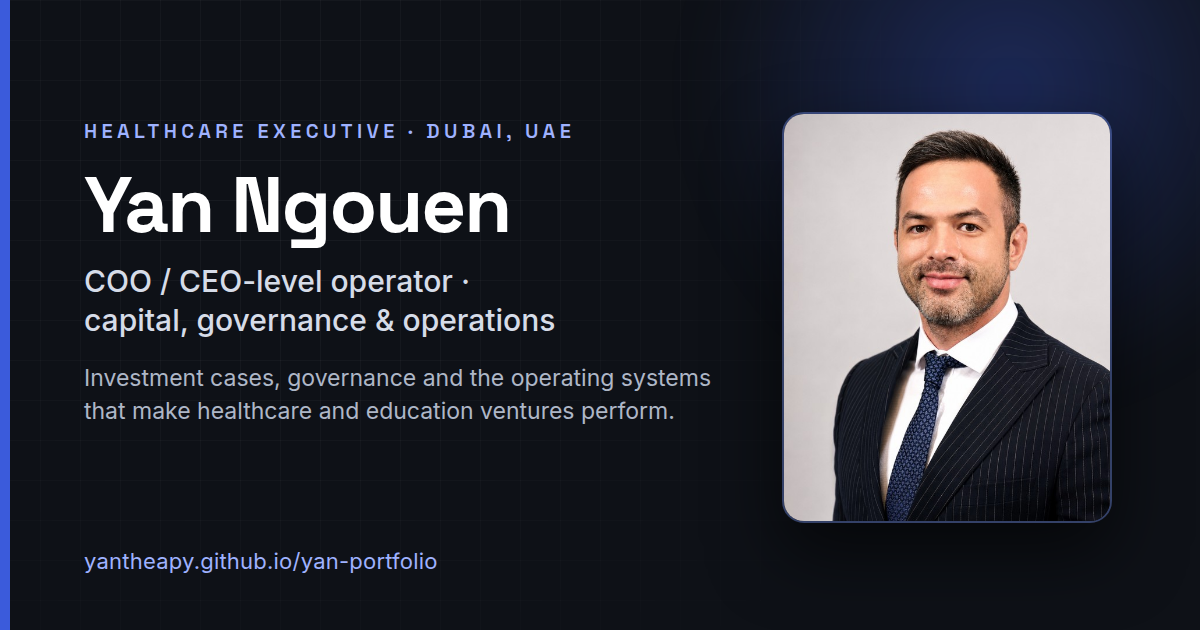
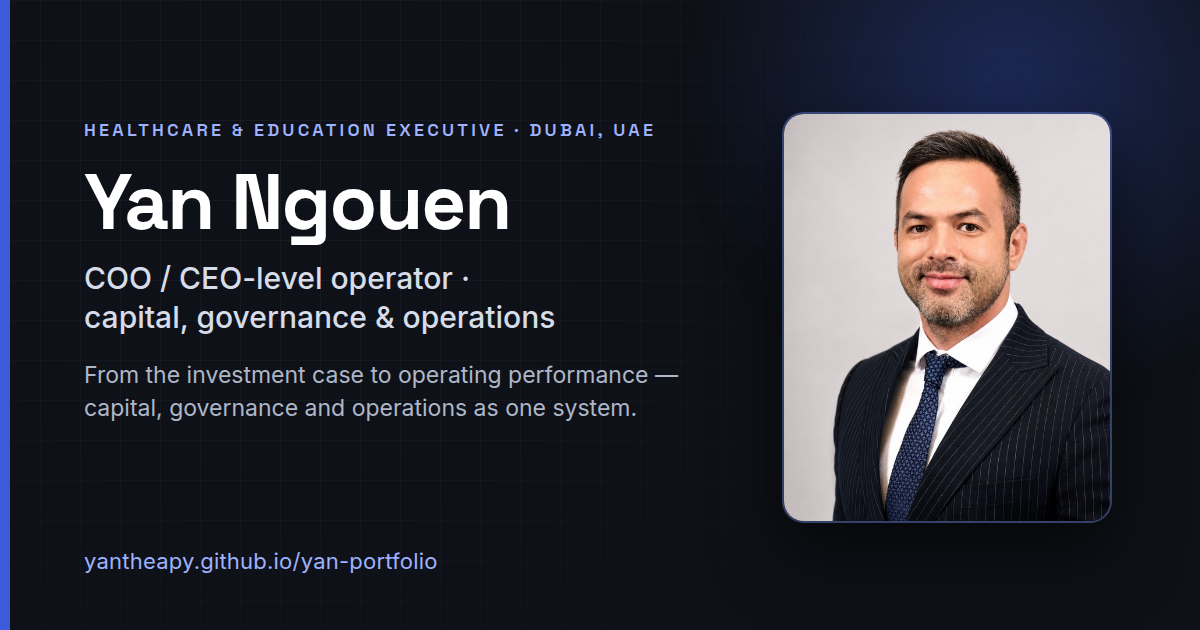
update

diff --git a/index.html b/index.html
@@ -3,20 +3,20 @@
 <head>
 <meta charset="UTF-8">
 <meta name="viewport" content="width=device-width, initial-scale=1.0">
-<title>Yan Ngouen — Healthcare executive · COO / CEO-level operator · Dubai</title>
-<meta name="description" content="Yan Ngouen — healthcare executive in Dubai. COO / CEO-level operator for healthcare and education ventures: investment cases, governance and operations. Four M&amp;A deals closed end-to-end, an AED 240M+ investment programme taken to a board go/no-go, an AED 1.0B+ collection structured into an investable institution.">
+<title>Yan Ngouen — Healthcare &amp; education executive · COO / CEO-level operator · Dubai</title>
+<meta name="description" content="Yan Ngouen — healthcare &amp; education executive in Dubai. COO / CEO-level operator: takes healthcare, education and cultural ventures from the investment case to operating performance — capital, governance and operations as one system. Four M&amp;A deals closed end-to-end, an AED 240M+ investment programme taken to a board go/no-go, an AED 1.0B+ collection structured into an investable institution.">
 <meta name="theme-color" content="#0E1117">
 <link rel="canonical" href="https://yantheapy.github.io/yan-portfolio/">
 <link rel="icon" type="image/png" href="favicon.png">
 <meta property="og:type" content="profile">
-<meta property="og:title" content="Yan Ngouen — Healthcare executive · COO / CEO-level operator · Dubai">
+<meta property="og:title" content="Yan Ngouen — Healthcare &amp; education executive · COO / CEO-level operator · Dubai">
 <meta property="og:description" content="Investment cases, governance and the operating systems that make healthcare and education ventures perform. Four M&amp;A deals, an AED 240M+ investment programme, an AED 1.0B+ collection made investable. Dubai, UAE.">
 <meta property="og:image" content="https://yantheapy.github.io/yan-portfolio/og-image.png">
 <meta property="og:image:width" content="1200">
 <meta property="og:image:height" content="630">
 <meta property="og:url" content="https://yantheapy.github.io/yan-portfolio/">
 <meta name="twitter:card" content="summary_large_image">
-<meta name="twitter:title" content="Yan Ngouen — Healthcare executive · COO / CEO-level operator · Dubai">
+<meta name="twitter:title" content="Yan Ngouen — Healthcare &amp; education executive · COO / CEO-level operator · Dubai">
 <meta name="twitter:description" content="Investment cases, governance and operations for healthcare and education ventures. Dubai, UAE.">
 <meta name="twitter:image" content="https://yantheapy.github.io/yan-portfolio/og-image.png">
 <link rel="preload" href="assets/fonts/inter-latin-400-normal.woff2" as="font" type="font/woff2" crossorigin>
@@ -27,8 +27,8 @@
   "@context": "https://schema.org",
   "@type": "Person",
   "name": "Yan Ngouen",
-  "jobTitle": "Healthcare executive · COO / CEO-level operator",
-  "description": "Healthcare executive in Dubai: investment cases, governance and operations for healthcare and education ventures.",
+  "jobTitle": "Healthcare & education executive · COO / CEO-level operator",
+  "description": "Healthcare and education executive in Dubai: takes ventures from the investment case to operating performance — capital, governance and operations as one system.",
   "url": "https://yantheapy.github.io/yan-portfolio/",
   "image": "https://yantheapy.github.io/yan-portfolio/photo.jpg",
   "email": "mailto:yantherapy@gmail.com",
@@ -277,7 +277,7 @@
         <a href="#background">Background</a>
         <a href="#how">How I work</a>
         <a href="#contact">Contact</a>
-        <a class="navcta" href="YanNgouen_CV.pdf" download>CV (PDF)</a>
+        <a class="navcta" href="YanNgouen_CV.pdf" target="_blank" rel="noopener">CV (PDF)</a>
       </nav>
     </div>
   </header>
@@ -289,13 +289,13 @@
           <source type="image/webp" srcset="photo.webp 1x, photo-2x.webp 2x">
           <img class="headshot" src="photo.jpg" alt="Yan Ngouen" width="188" height="235" fetchpriority="high">
         </picture>
-        <div class="eyebrow">Healthcare executive · Dubai, UAE</div>
+        <div class="eyebrow">Healthcare &amp; education executive · Dubai, UAE</div>
         <h1>Yan Ngouen</h1>
         <p class="role">COO / CEO-level operator · capital, governance &amp; operations</p>
-        <p class="spine">I run and finance healthcare and education ventures — from the investment case to day-to-day operations — so boards get <b>decisions they can defend</b> and teams get <b>systems that hold</b>.</p>
+        <p class="spine">I take healthcare, education and cultural ventures from the investment case to operating performance — <b>capital, governance and operations as one system</b>.</p>
         <p class="meta"><span>UAE residence, no sponsorship required</span><i>·</i><span>English · Russian</span><i>·</i><span>MBA Frankfurt School (Distinction)</span><i>·</i><span>MSc Health Economics, LSE</span><i>·</i><span>TRIUM Global EMBA 2026–28</span></p>
         <div class="hero-actions">
-          <a class="btn primary" href="YanNgouen_CV.pdf" download>Download CV (PDF)</a>
+          <a class="btn primary" href="YanNgouen_CV.pdf" target="_blank" rel="noopener">Open CV (PDF)</a>
           <a class="btn ghost-light" href="#contact">Get in touch</a>
         </div>
         <div class="hero-links">
@@ -316,7 +316,7 @@
 
     <section id="work" class="sec">
       <div class="sec-head"><h2>Selected work</h2></div>
-      <p class="sec-sub">Three mandates where capital, governance and operations had to work as one system. Each has a live model or platform behind it; figures are the models' own, shared with the owners' permission.</p>
+      <p class="sec-sub">Four mandates where capital, governance and operations had to work as one system. Each has a live model or platform behind it; figures are the models' own, shared with the owners' permission.</p>
 
       <article class="case" id="case-clinic">
         <div class="tag">Investment decision · UAE healthcare developer</div>
@@ -382,6 +382,29 @@
         </details>
       </article>
 
+      <article class="case" id="case-university">
+        <div class="tag">Commercial &amp; operating leadership · private university group</div>
+        <h3>M&amp;A-led growth of a ~RUB 1B private university group</h3>
+        <div class="ctx">Chief Commercial Officer / COO · Synergy University, Moscow — business, medicine and digital faculties · Jun 2023 – Nov 2024</div>
+        <div class="blocks">
+          <div class="block"><div class="k">Challenge</div><p>Six business units, 150+ staff and ~RUB 1B of annual revenue: growth had to come from portfolio decisions and acquisitions rather than one faculty, and the group needed one set of numbers across all units.</p></div>
+          <div class="block"><div class="k">What I did</div><p>Owned group financial planning and budgeting; repositioned the medical faculty and ran portfolio optimisation with KPI-driven management; built one analytics framework (NPS, CSAT, KPIs) across six units; led four medical-clinic M&amp;A deals end-to-end — due diligence, valuation, integration.</p></div>
+          <div class="block"><div class="k">Result</div><p>~40% revenue CAGR, four acquisitions closed and integrated, and a single analytics framework the leadership team ran the group on.</p></div>
+        </div>
+
+        <div class="ev" role="group" aria-label="University group mandate summary">
+          <div class="ev-head"><div class="ev-title">Group scope · Jun 2023 – Nov 2024</div></div>
+          <div class="kpis four">
+            <div class="kpi"><div class="l">Annual revenue</div><div class="v">~RUB 1B</div><div class="b">six business units</div></div>
+            <div class="kpi"><div class="l">Revenue CAGR</div><div class="v">~40%</div><div class="b">portfolio optimisation · KPI management</div></div>
+            <div class="kpi"><div class="l">M&amp;A transactions</div><div class="v">4</div><div class="b">medical clinics · end-to-end</div></div>
+            <div class="kpi"><div class="l">Team</div><div class="v">150+</div><div class="b">across six units</div></div>
+          </div>
+        </div>
+
+        <div class="outcome"><span class="o">~40% revenue CAGR</span><span class="o">Four acquisitions closed and integrated</span><span class="o">One analytics framework across six units</span></div>
+      </article>
+
       <article class="case" id="case-museum">
         <div class="tag">Capital raise · cultural institution, Dubai</div>
         <h3>A landmark private collection, made investable</h3>
@@ -423,7 +446,7 @@
       <article class="case" id="case-platform">
         <div class="tag">Operational transformation · DHA-regulated clinic, Dubai</div>
         <h3>From scattered documents to an audit-ready clinic</h3>
-        <div class="ctx">Premium dental clinic, Dubai · transformation mandate · 2026</div>
+        <div class="ctx">Chief Executive Officer, transformation mandate · premium DHA-regulated dental clinic, Dubai · 2026</div>
         <div class="blocks">
           <div class="block"><div class="k">Challenge</div><p>Scaling a regulated clinic while governance, quality, sales and operations lived in scattered documents — no single, access-controlled source of truth and no way to see the numbers.</p></div>
           <div class="block"><div class="k">What I did</div><p>Mapped and redesigned the core business processes, built the governance and quality backbone — a 31-KPI Balanced Scorecard, 14 SOPs, CAPA continuous improvement, patient-risk and RAID registers — and put it on one internal platform for management and clinicians, bilingual RU/EN.</p></div>
@@ -482,6 +505,7 @@
         <div class="tcard"><div class="th">Business</div><p>MBA, Frankfurt School (Distinction); MSc Health Economics, Policy and Management, LSE; TRIUM Global Executive MBA (NYU Stern / LSE / HEC Paris), 2026–28: financial, strategic and policy discipline for board-level decisions.</p></div>
         <div class="tcard"><div class="th">Systems</div><p>I build the decision systems myself — financial models, dashboards, operating platforms — so the numbers a board sees are the numbers the floor runs on.</p></div>
       </div>
+      <p class="aside-link"><b>Board &amp; advisory:</b> Strategic Advisor to the Board, UMED — private medical university and college group, 7,000+ students · 2024–present. Earlier: Medical Education Director, RockTape (Europe &amp; Mediterranean); Head of Rehabilitation, VC Zenith.</p>
     </section>
 
     <section id="how" class="sec">
@@ -502,7 +526,7 @@
       <p class="lead">Executive leadership for organisations that need strategy, capital and operations to run as one system across the UAE, the GCC and beyond.</p>
       <div class="ctas">
         <a class="btn primary" href="mailto:yantherapy@gmail.com?subject=Executive%20%2F%20board%20conversation">Email me</a>
-        <a class="btn ghost" href="YanNgouen_CV.pdf" download>Download CV (PDF)</a>
+        <a class="btn ghost" href="YanNgouen_CV.pdf" target="_blank" rel="noopener">CV (PDF)</a>
         <a class="btn ghost" href="https://www.linkedin.com/in/yan-ngouen/" rel="noopener">LinkedIn</a>
       </div>
       <p class="email"><a href="mailto:yantherapy@gmail.com">yantherapy@gmail.com</a> · Dubai, UAE</p>

diff --git a/cv.html b/cv.html
@@ -69,7 +69,7 @@
 
   <main class="doc">
     <h1 class="name">Yan Ngouen</h1>
-    <div class="headline">Healthcare executive · COO / CEO-level operator · capital, governance &amp; operations</div>
+    <div class="headline">Healthcare &amp; education executive · COO / CEO-level operator · capital, governance &amp; operations</div>
     <div class="contact">Dubai, UAE &nbsp;·&nbsp; +971 58 872 3184 &nbsp;·&nbsp; <a href="mailto:yantherapy@gmail.com">yantherapy@gmail.com</a> &nbsp;·&nbsp; <a href="https://www.linkedin.com/in/yan-ngouen/">linkedin.com/in/yan-ngouen</a></div>
     <div class="visa">UAE residence via investor visa (self-sponsored), no employer sponsorship required</div>
     <nav class="toc" aria-label="Sections"><a href="#summary">Summary</a><a href="#competencies">Competencies</a><a href="#experience">Experience</a><a href="#projects">Projects</a><a href="#advisory">Advisory roles</a><a href="#education">Education</a></nav>
@@ -141,7 +141,7 @@
     </div>
     <div class="job">
       <div class="job-h"><span class="job-t">Clinic operations &amp; governance platform</span><span class="job-d">2026</span></div>
-      <div class="job-c">Premium DHA-regulated multidisciplinary dental clinic · Dubai, UAE</div>
+      <div class="job-c">Chief Executive Officer, transformation mandate · Premium DHA-regulated multidisciplinary dental clinic · Dubai, UAE</div>
       <ul>
         <li>Specified and shipped a 190+ page internal operating platform: modular web app with edge-middleware auth and email-OTP login, 14 serverless APIs, a KV data layer with optimistic locking and audit, event telemetry, role-based access, and CI/CD to Cloudflare.</li>
         <li>Built a Balanced Scorecard tracking 31 KPIs across the Quintuple Aim, plus 14 SOPs aligned to DHA / JCI / ISO 13485 and a CAPA quality methodology, establishing the JCI accreditation pathway.</li>
